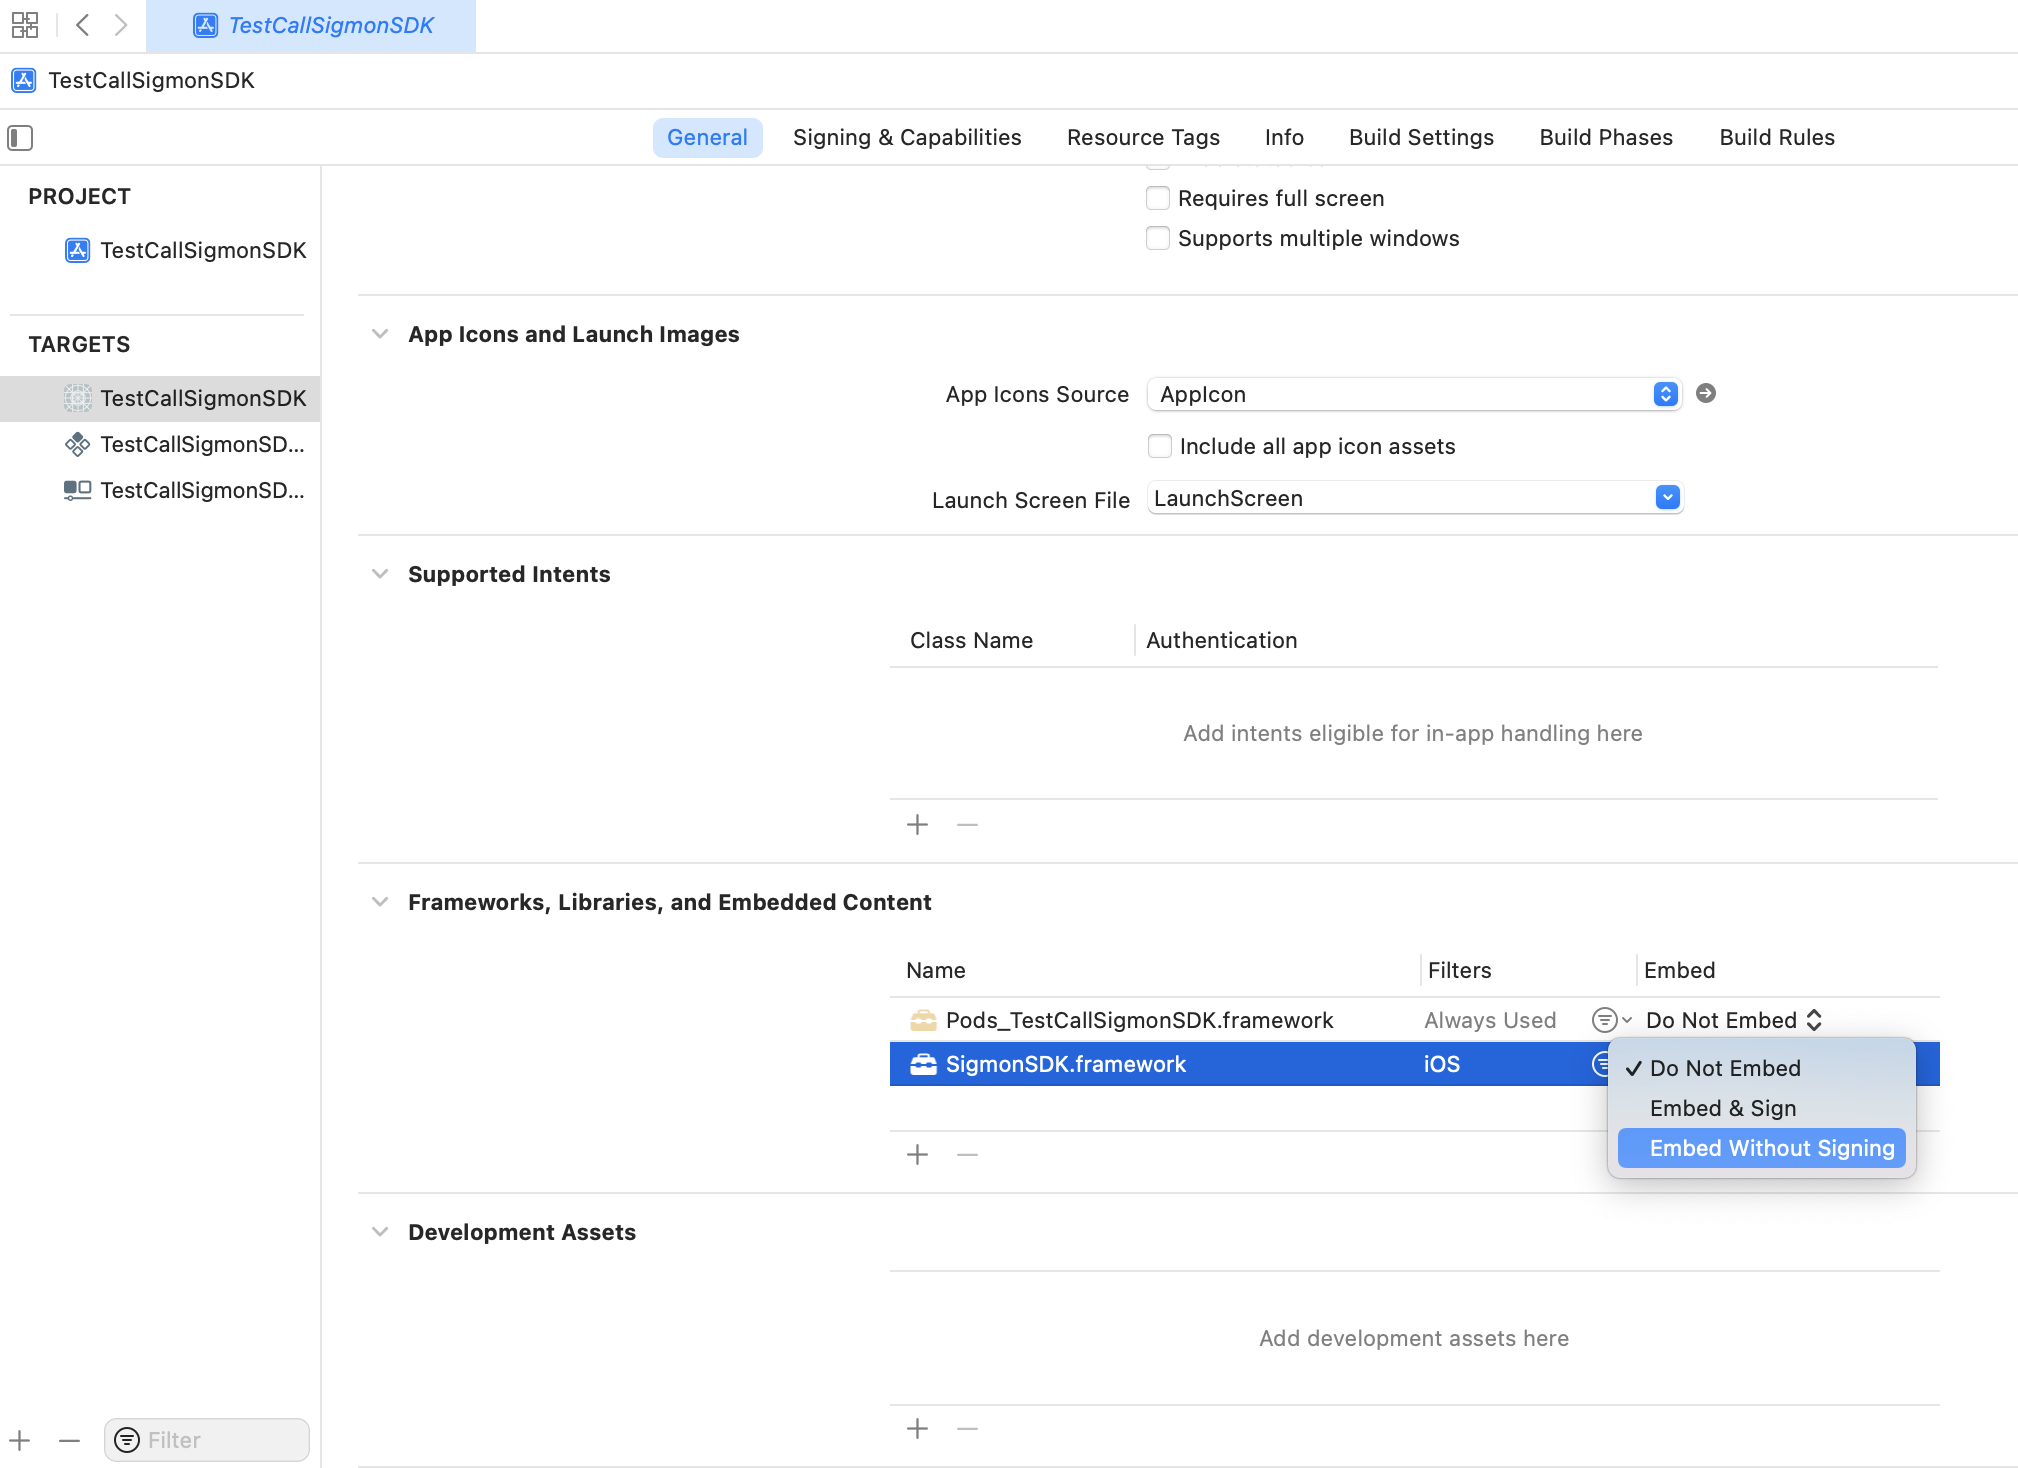
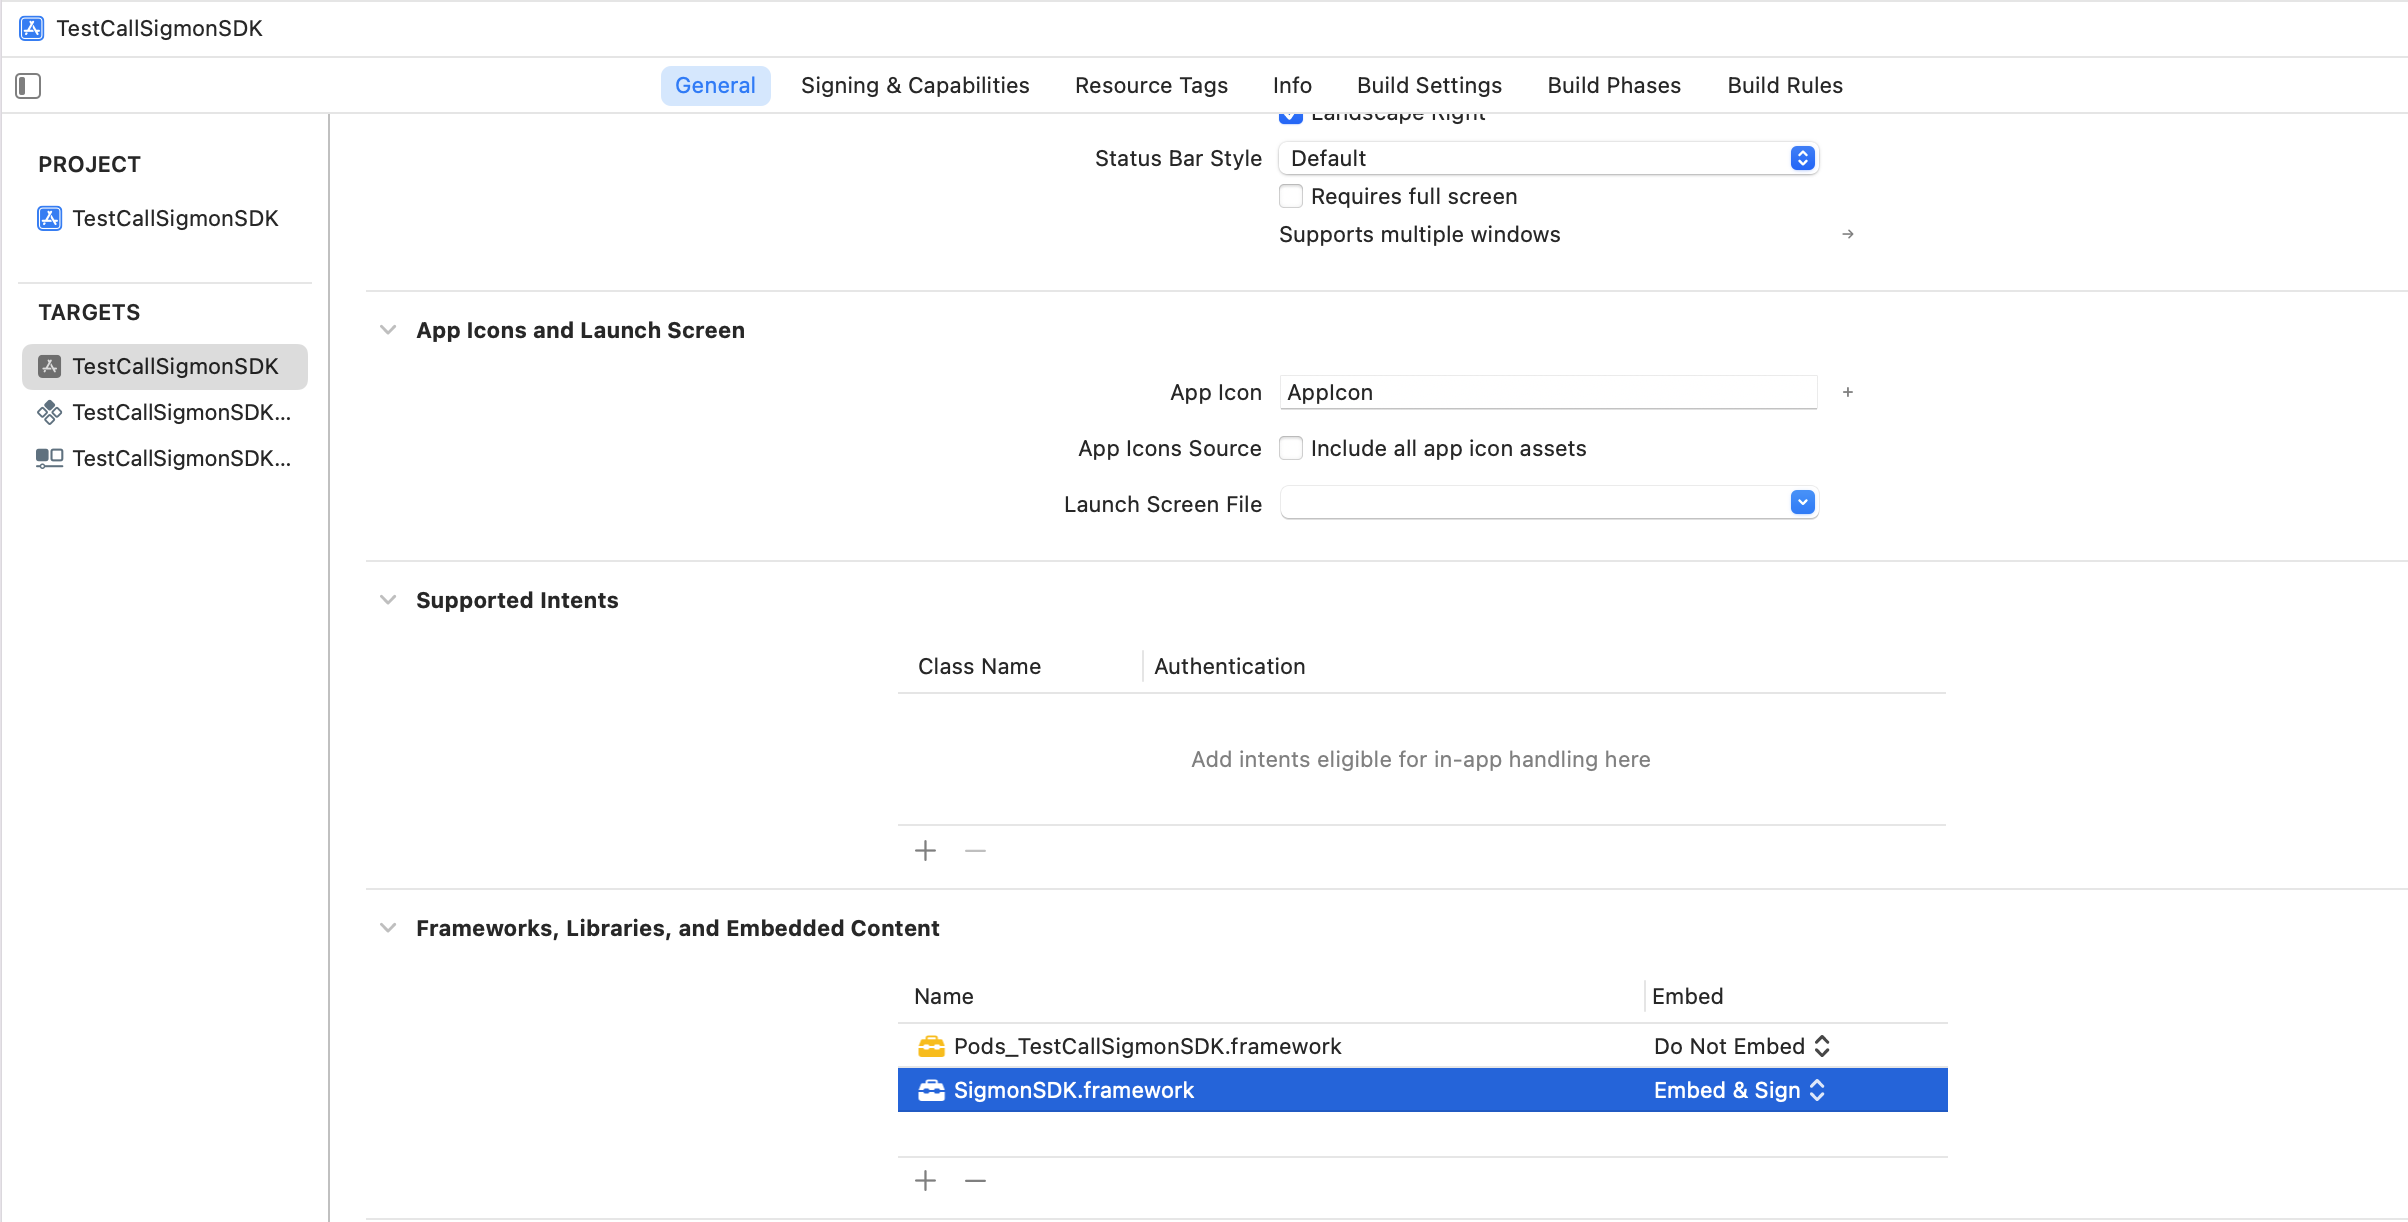
Update readme - rebuilding

diff --git a/README.MD b/README.MD
@@ -23,7 +23,7 @@ After donwloading SigmonSDK.framework, please open your project and then add Sig
 <br/>
 Once you have successfully add SigmonSDK.framework, select the project in the Project navigator, and then open the General tab, look at 'Frameworks, Libraries, and Embedded Content',
 <br/>
-please choose Embed Without Signing in the SigmonSDK.framework as shown below.
+please choose Embed & Sign in the SigmonSDK.framework as shown below.
 <br/>
 <img src="https://raw.githubusercontent.com/maedilaziman/dev-ios-sigmonsdk/master/Screenshots/IMG_02.png" width="300" />
 <br/>
